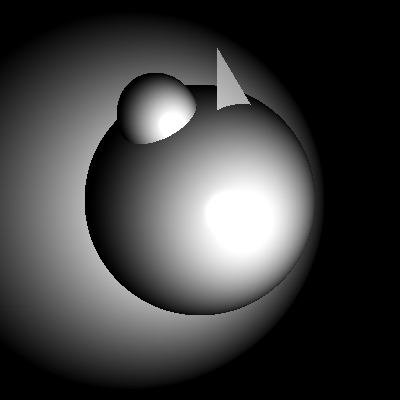
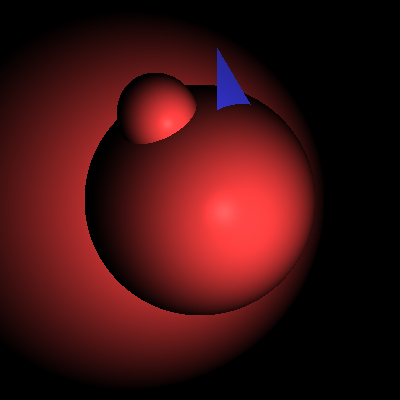
color added

diff --git a/Scene.cpp b/Scene.cpp
@@ -42,7 +42,7 @@ Vector3d Scene::trace(const Ray &ray) {
         HitRecord r = shapes[i]->intersect(ref);
 
         // If something is between the position and light source, then return result as black (shadow)
-        if (r.t > 0.00000000000001)  return result;
+        if (r.t > 0.000000000001)  return result;
     }
 
     double dot = lightDir.dot(r.normal);
@@ -83,7 +83,9 @@ Vector3d Scene::phongShading(HitRecord r, Vector3d lightDir, double dot) {
 
     viewPos[0] = viewPos[1] = viewPos[2] = 0;
     lightColor[0] = lightColor[1] = lightColor[2] = 1;
-    objectColor[0] = objectColor[1] = objectColor[2] = dot;
+    objectColor[0] = dot * r.color[0];
+    objectColor[1] = dot * r.color[1];
+    objectColor[2] = dot * r.color[2];
 
     // Calculate ambient lighting by multiplying the ambient strength by the light color
     double ambientStrength = 0.1;

diff --git a/main.cpp b/main.cpp
@@ -33,17 +33,14 @@ int main() {
     p1[0] = 1.0;
     p1[1] = 0.8;
     p1[2] = 2.75;
-
     Vector3d p2;
     p2[0] = 0.2;
     p2[1] = 0.8;
     p2[2] = 2.3;
-
     Vector3d p3;
     p3[0] = 0.2;
     p3[1] = 1.75;
     p3[2] = 2.3;
-
     scene.addShape(new Triangle(p1, p2, p3));
 
     scene.render(im);

diff --git a/Sphere.cpp b/Sphere.cpp
@@ -30,5 +30,9 @@ HitRecord Sphere::intersect(const Ray &ray) {
     result.position = ray.origin + result.t * ray.direction;
     result.normal = (result.position - c).normalized();
 
+    result.color[0] = 1.0;
+    result.color[1] = 0.25;
+    result.color[2] = 0.25;
+
     return result;
 }

diff --git a/Triangle.cpp b/Triangle.cpp
@@ -54,5 +54,9 @@ HitRecord Triangle::intersect(const Ray& ray) {
     result.position = position;
     result.normal = normal;
 
+    result.color[0] = 0.25;
+    result.color[1] = 0.25;
+    result.color[2] = 1.0;
+
     return result;
 }

diff --git a/Shape.h b/Shape.h
@@ -11,7 +11,7 @@ namespace Raytracer148 {
 	class Shape;
 
 	struct HitRecord {
-		Eigen::Vector3d position, normal;
+		Eigen::Vector3d position, normal, color;
 		double t;
 	};
 
